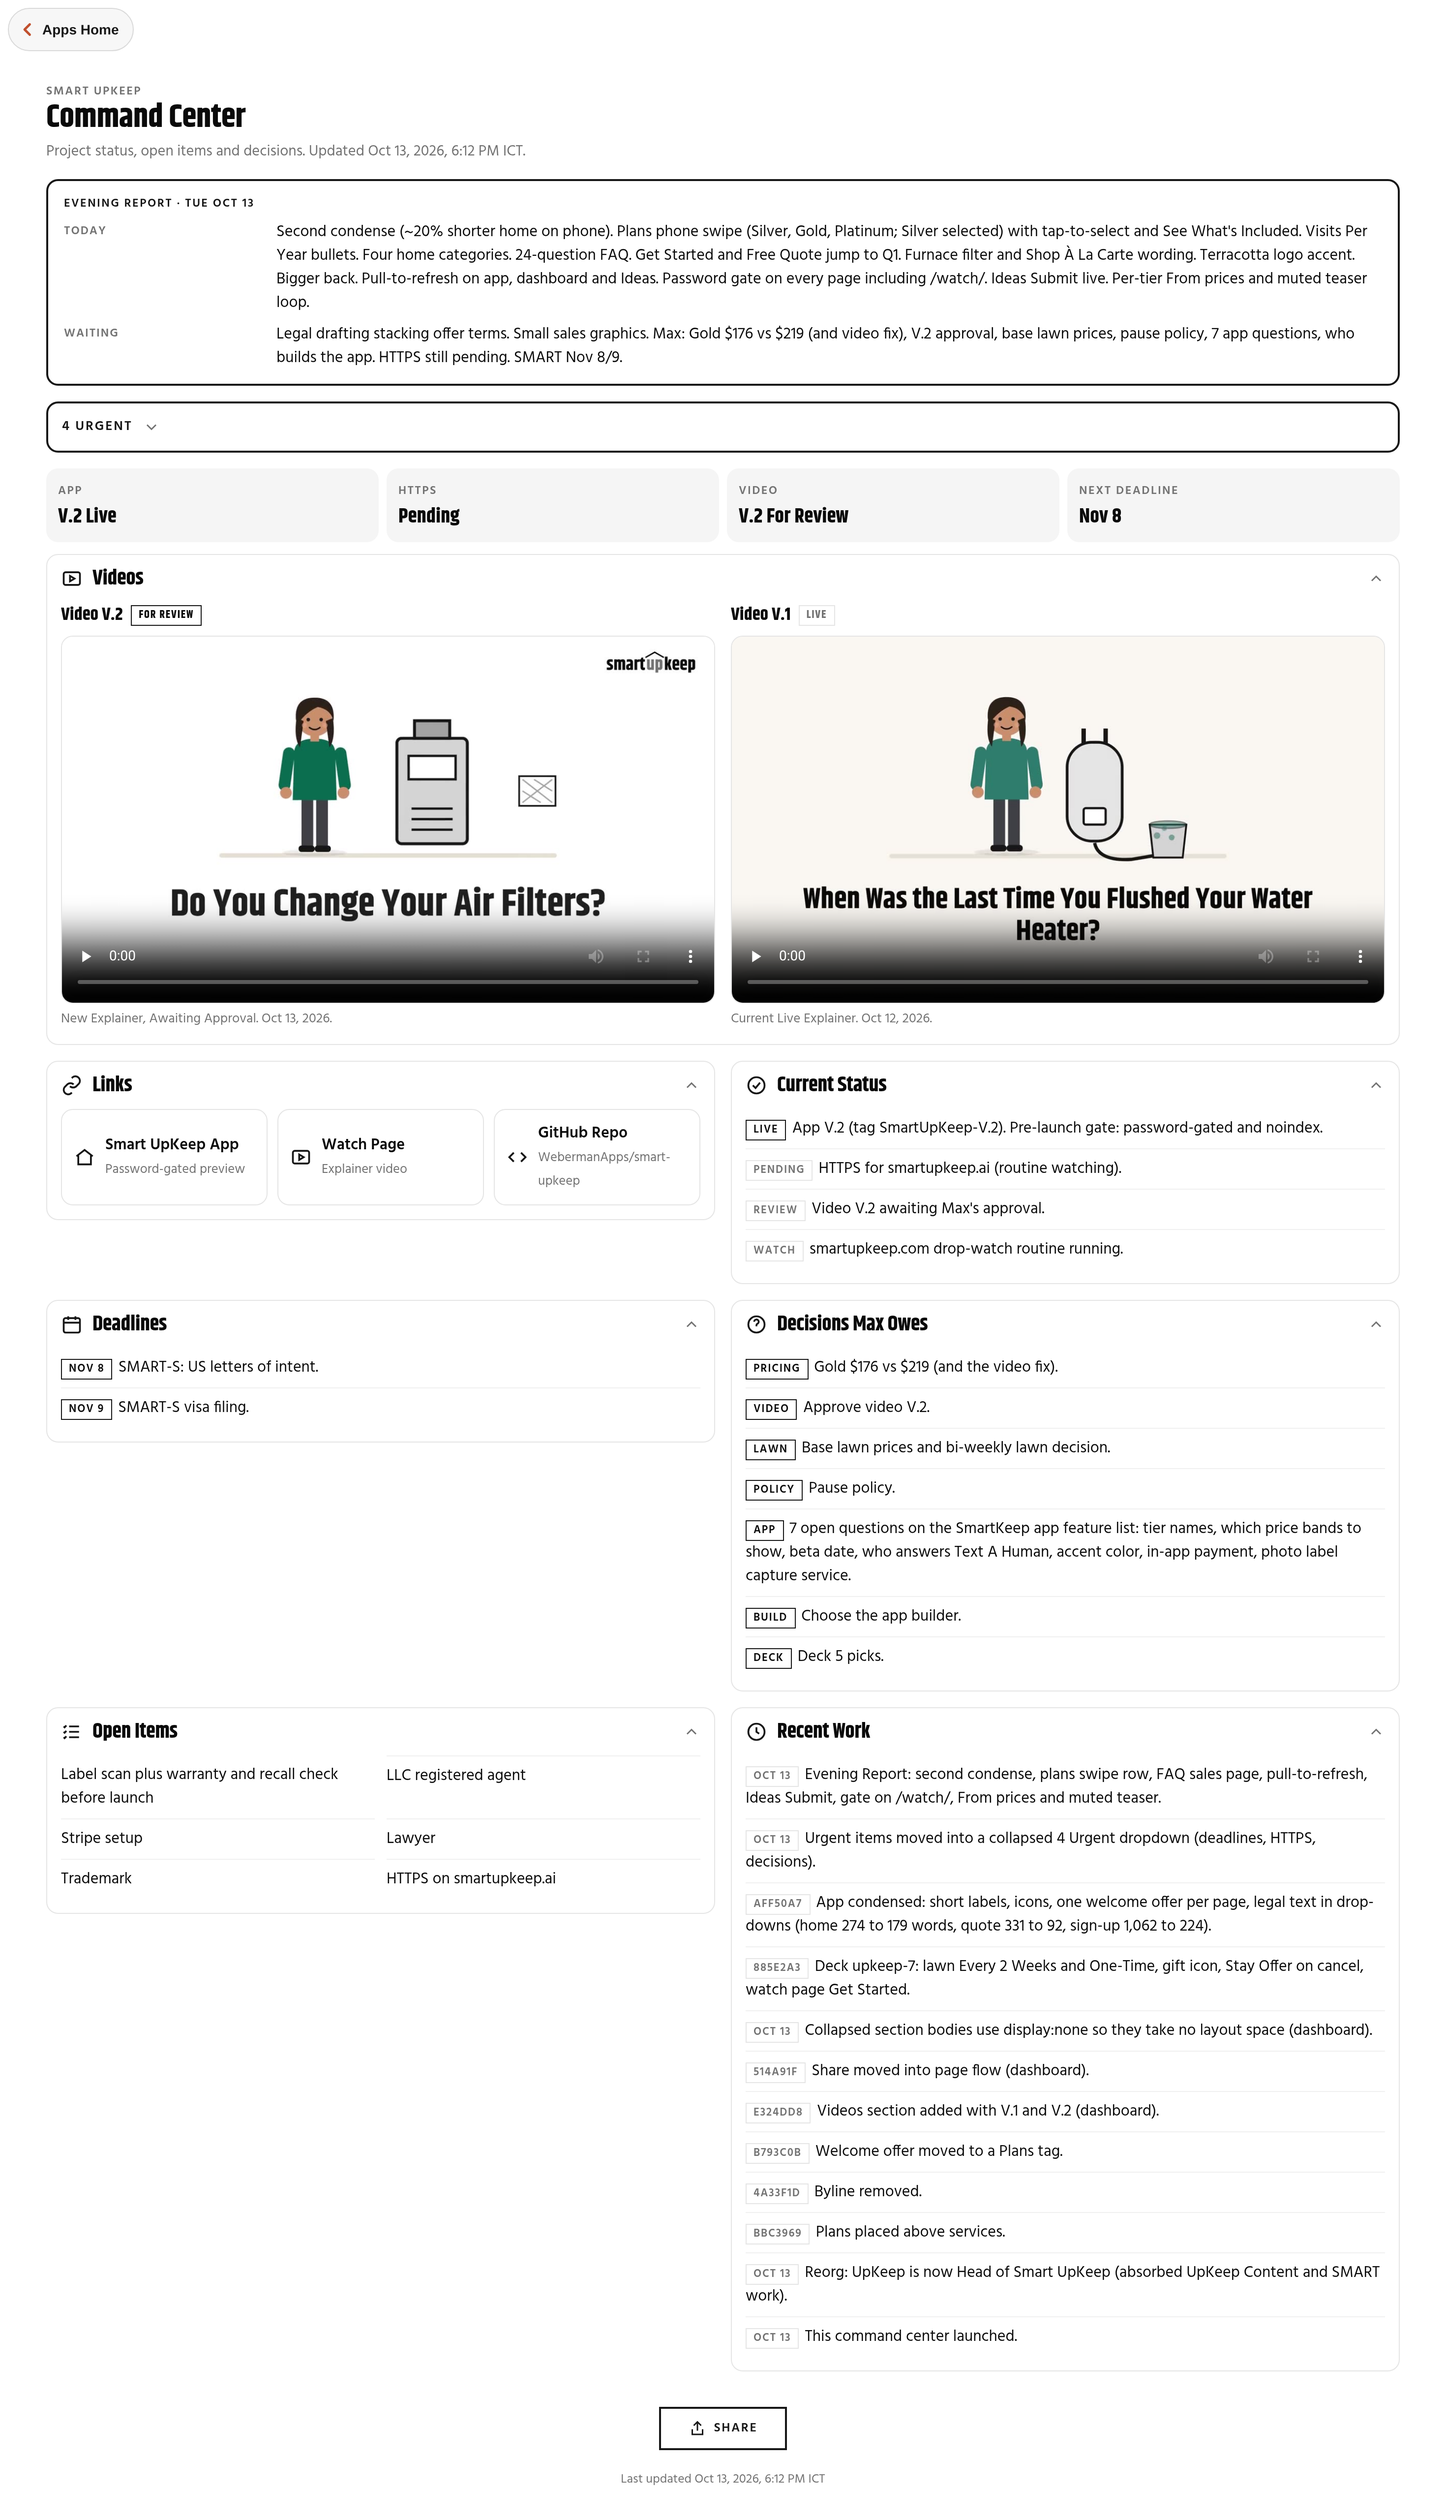
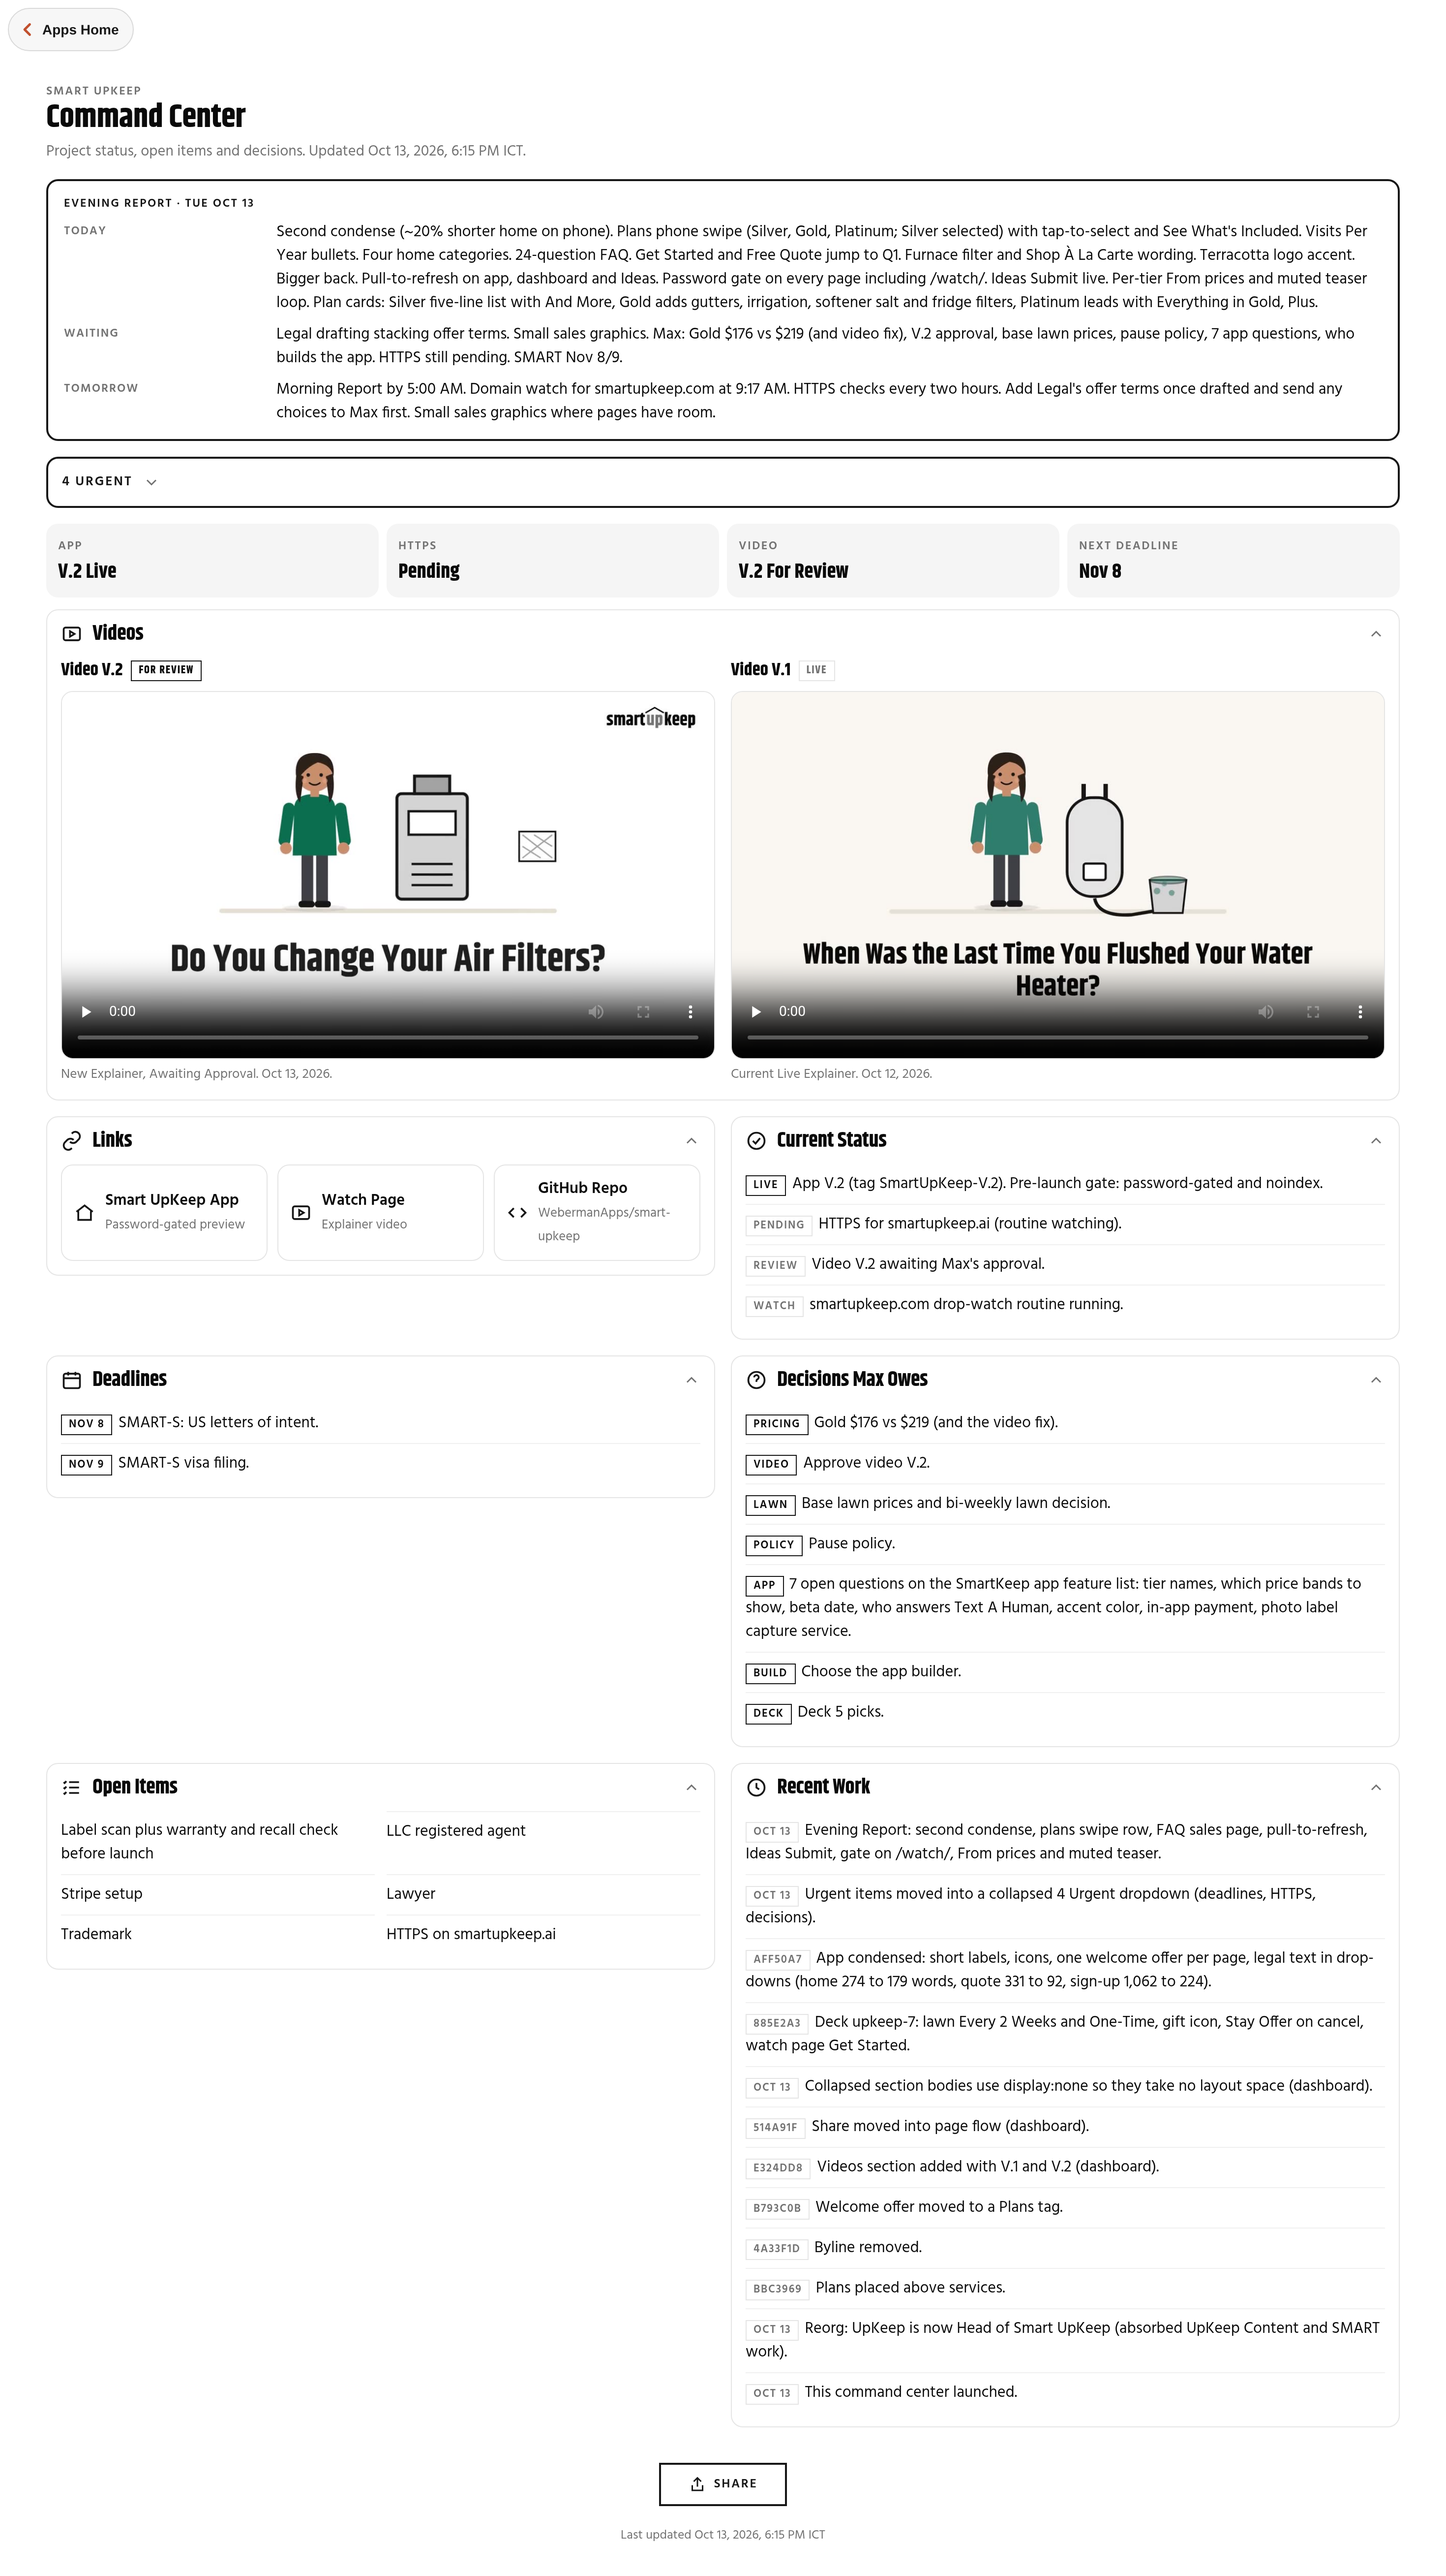
Evening Report: add Tomorrow and plan card copy

diff --git a/index.html b/index.html
@@ -51,10 +51,11 @@ li{overflow-wrap:anywhere}
 @media(min-width:2400px){main{max-width:2200px}body{font-size:24px}h1{font-size:3.6rem}}
 :focus-visible{outline:3px solid #171717;outline-offset:3px}
 </style></head><body><a class="apps-home" href="https://webermanapps.github.io/a-2sipntzsp385oxy3/" style="display:inline-flex;align-items:center;gap:6px;min-height:44px;min-width:44px;padding:0 14px 0 10px;margin:8px 0 0 8px;border:1px solid #d9d9d9;border-radius:999px;background:#f7f7f7;color:#171717;text-decoration:none;font:700 14px/1 sans-serif;white-space:nowrap;flex:none"><svg width="18" height="18" viewBox="0 0 24 24" fill="none" stroke="#C1502E" stroke-width="3.2" stroke-linecap="round" stroke-linejoin="round" aria-hidden="true"><path d="M15 5l-7 7 7 7"/></svg>Apps Home</a><main>
-<div class="lbl">Smart UpKeep</div><h1>Command Center</h1><p class="sub">Project status, open items and decisions. Updated <span id="u">Oct 13, 2026, 6:10 PM ICT</span>.</p>
+<div class="lbl">Smart UpKeep</div><h1>Command Center</h1><p class="sub">Project status, open items and decisions. Updated <span id="u">Oct 13, 2026, 6:15 PM ICT</span>.</p>
 <section class="rpt" aria-label="Evening Report"><div class="lbl">Evening Report · Tue Oct 13</div><dl>
-<dt>Today</dt><dd>Second condense (~20% shorter home on phone). Plans phone swipe (Silver, Gold, Platinum; Silver selected) with tap-to-select and See What's Included. Visits Per Year bullets. Four home categories. 24-question FAQ. Get Started and Free Quote jump to Q1. Furnace filter and Shop À La Carte wording. Terracotta logo accent. Bigger back. Pull-to-refresh on app, dashboard and Ideas. Password gate on every page including /watch/. Ideas Submit live. Per-tier From prices and muted teaser loop.</dd>
+<dt>Today</dt><dd>Second condense (~20% shorter home on phone). Plans phone swipe (Silver, Gold, Platinum; Silver selected) with tap-to-select and See What's Included. Visits Per Year bullets. Four home categories. 24-question FAQ. Get Started and Free Quote jump to Q1. Furnace filter and Shop À La Carte wording. Terracotta logo accent. Bigger back. Pull-to-refresh on app, dashboard and Ideas. Password gate on every page including /watch/. Ideas Submit live. Per-tier From prices and muted teaser loop. Plan cards: Silver five-line list with And More, Gold adds gutters, irrigation, softener salt and fridge filters, Platinum leads with Everything in Gold, Plus.</dd>
 <dt>Waiting</dt><dd>Legal drafting stacking offer terms. Small sales graphics. Max: Gold $176 vs $219 (and video fix), V.2 approval, base lawn prices, pause policy, 7 app questions, who builds the app. HTTPS still pending. SMART Nov 8/9.</dd>
+<dt>Tomorrow</dt><dd>Morning Report by 5:00 AM. Domain watch for smartupkeep.com at 9:17 AM. HTTPS checks every two hours. Add Legal's offer terms once drafted and send any choices to Max first. Small sales graphics where pages have room.</dd>
 </dl></section>
 <details class="urg"><summary><span class="lbl">4 Urgent</span><svg class="chev" width="18" height="18" viewBox="0 0 24 24" fill="none" stroke="#737373" stroke-width="2"><path d="m6 9 6 6 6-6"/></svg></summary><div class="body"><ul>
 <li><span class="tag">Nov 8</span>SMART-S: US letters of intent.</li>
@@ -118,7 +119,7 @@ li{overflow-wrap:anywhere}
 <li><span class="tag m">Oct 13</span>This command center launched.</li></ul></div></details>
 </div>
 <div class="bar"><button class="btn mw-hover" id="s"><svg width="18" height="18" viewBox="0 0 24 24" fill="none" stroke="#171717" stroke-width="2"><path d="M12 3v12M7 8l5-5 5 5"/><path d="M5 13v7h14v-7"/></svg><span id="st">Share</span></button></div>
-<footer class="upd">Last updated Oct 13, 2026, 6:10 PM ICT</footer>
+<footer class="upd">Last updated Oct 13, 2026, 6:15 PM ICT</footer>
 </main>
 <script>
 if(matchMedia('(min-width:1200px)').matches)document.querySelectorAll('.secs details').forEach(d=>d.open=true);
